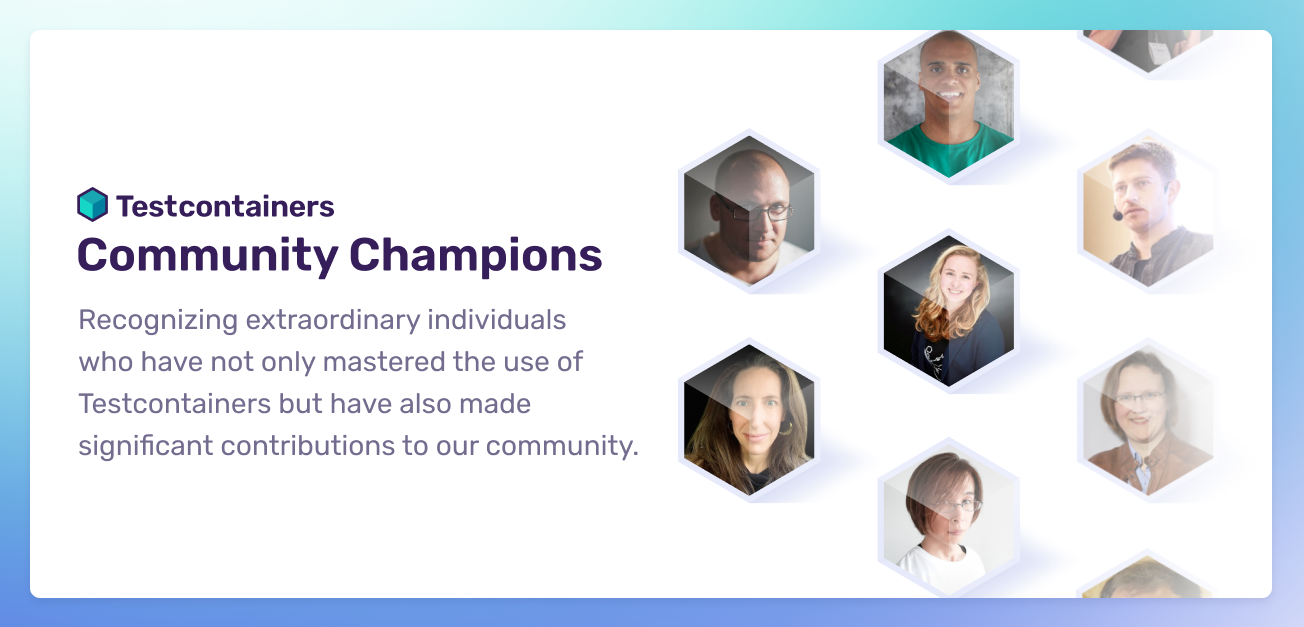
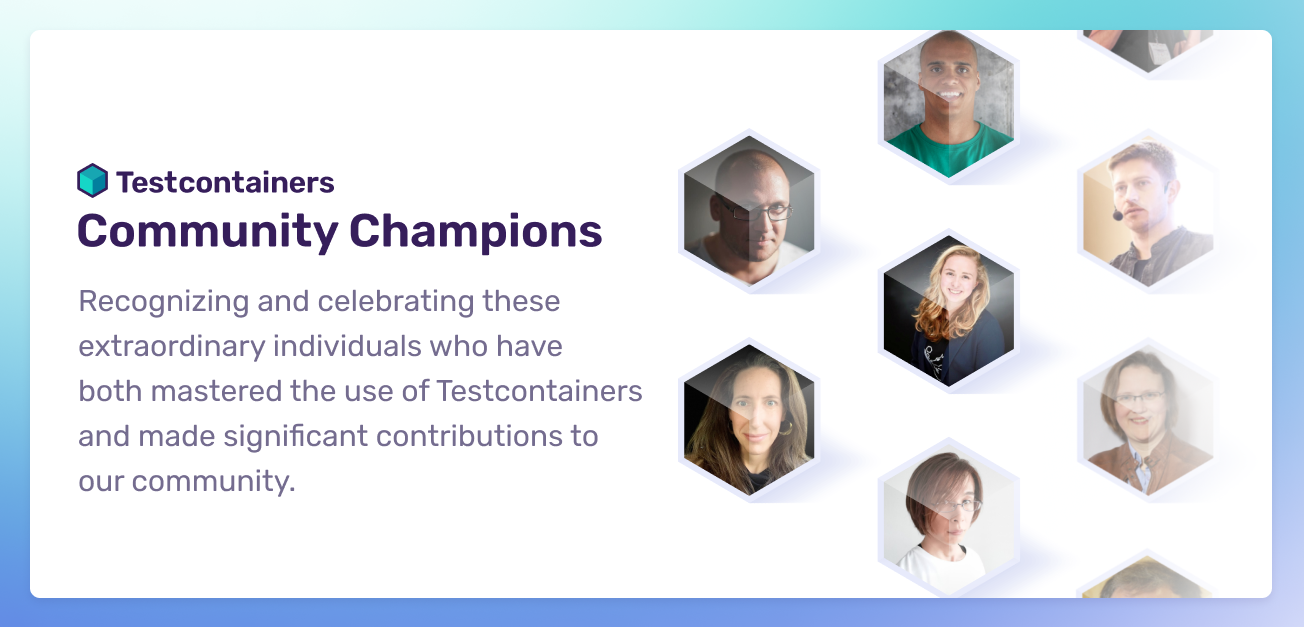
Fixed type and updated share

Changed region(s): [[0.0613, 0.2424, 0.4908, 0.7273], [0.0613, 0.7576, 0.2454, 0.7879]]

diff --git a/content/community-champions/_index.md b/content/community-champions/_index.md
@@ -1,5 +1,5 @@
 ---
 title: Community Champions
-description: Testcontainers Community Champions actively contribute to the growth and betterment of the Testcontainers community. They are passionate about Testcontainer, and use their knowledge and skills to help others succeed.
+description: Testcontainers Community Champions actively contribute to the growth and betterment of the Testcontainers community. They are passionate about Testcontainers, and use their knowledge and skills to help others succeed.
 ogImage: /images/community-champions-share-image.png
 ---
